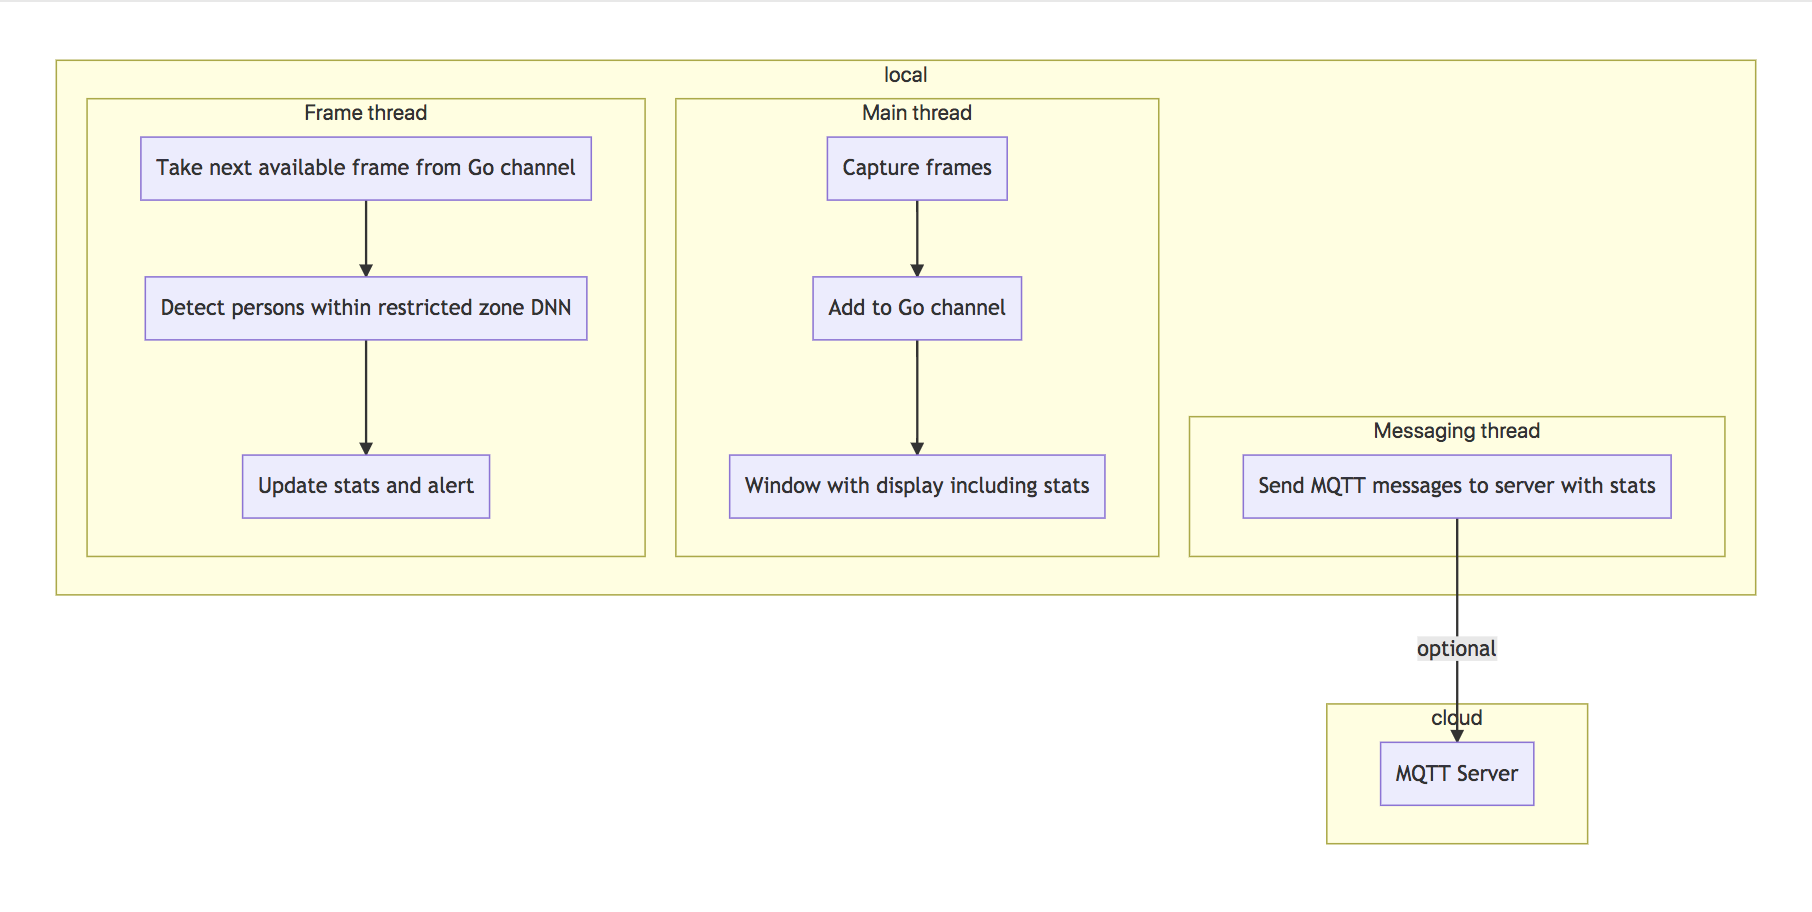
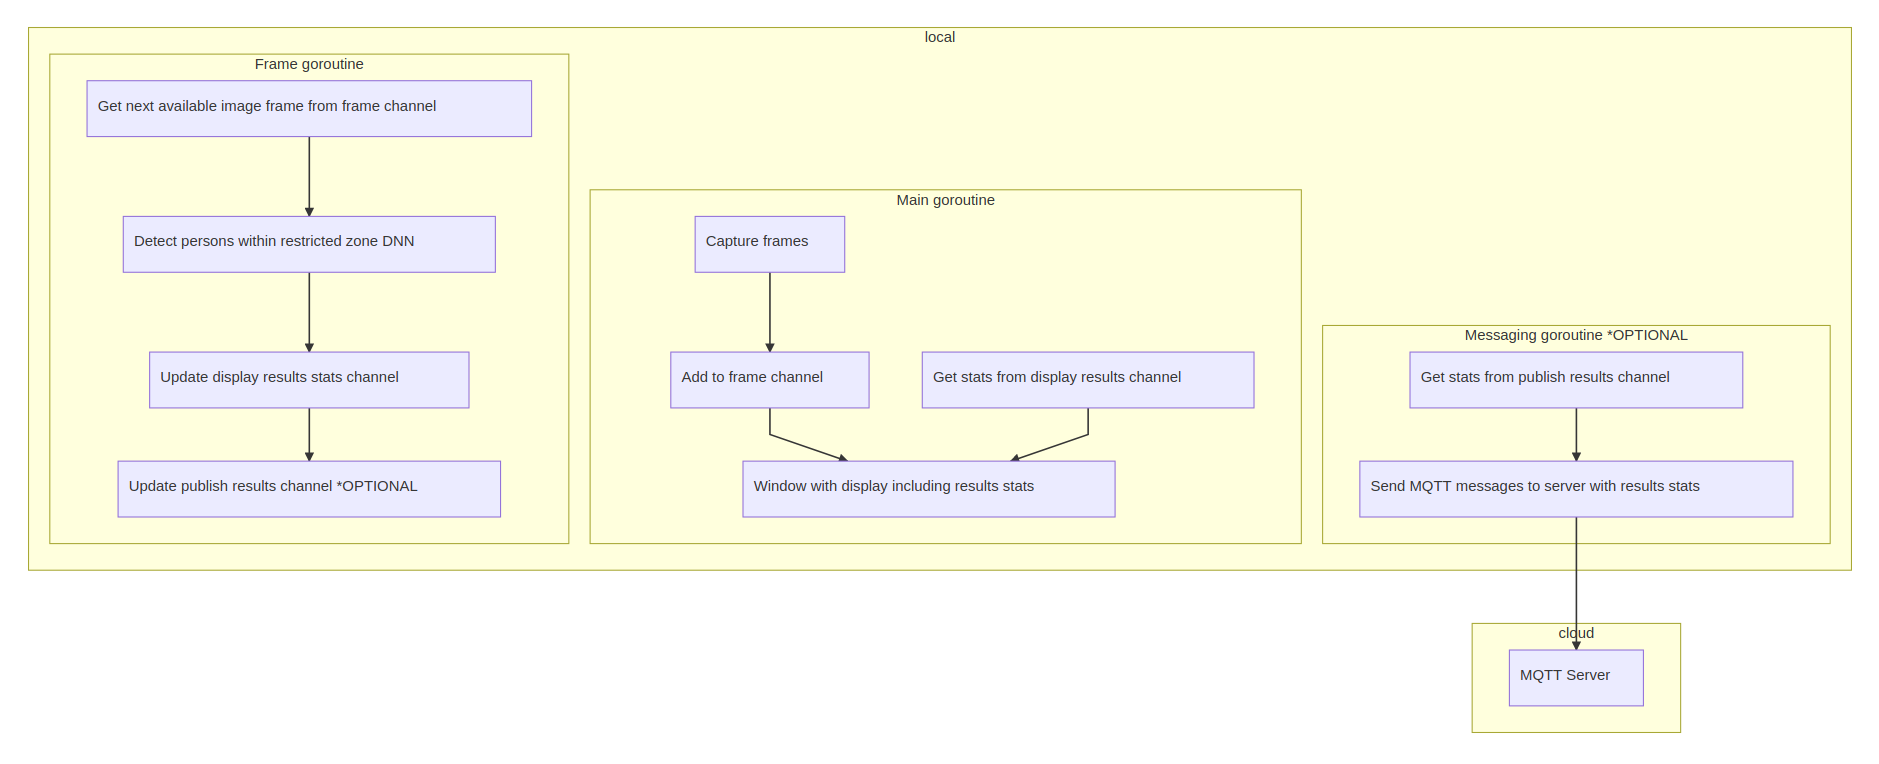
docs: update to latest installation info

diff --git a/README.md b/README.md
@@ -10,31 +10,76 @@
 
 ## Introduction
 
-This restricted zone notifier application is one of a series of reference implementations for Computer Vision (CV) using the OpenVINO™ toolkit. This application is designed for a machine mounted camera system that monitors if there are any humans present in a predefined selected assembly line area. It sends an alert if there is at least one person detected in the marked assembly area. The user can select the area coordinates either via command line parameters or once the application has been started they can select the region of interest (ROI) by pressing `ESC` key; this will pause the application, pop up a separate window on which the user can drag the mouse from the upper left ROI corner to whatever the size they require the area to cover. By default the whole frame is selected.
+This restricted zone notifier application is one of a series of reference implementations for Computer Vision (CV) using the Intel® Distribution of OpenVINO™ toolkit written in the Go programming language. This example is designed for a machine mounted camera system that monitors if there are any humans present in a predefined selected assembly line area. It sends an alert if there is at least one person detected in the marked assembly area. The user can select the area coordinates either via command line parameters or once the application has been started they can select the region of interest (ROI) by pressing `ESC` key; this will pause the application, pop up a separate window on which the user can drag the mouse from the upper left ROI corner to whatever the size they require the area to cover. By default the whole frame is selected.
 
 This example is intended to demonstrate how to use CV to improve assembly line safety for human operators and factory workers.
 
 ## Requirements
 
 ### Hardware
+
 * 6th Generation Intel® Core™ processor with Intel® Iris® Pro graphics and Intel® HD Graphics
 
 ### Software
+
 * [Ubuntu\* 16.04 LTS](http://releases.ubuntu.com/16.04/)
 *Note*: You must be running kernel version 4.7+ to use this software. We recommend using a 4.14+ kernel to use this software. Run the following command to determine your kernel version:
-```
+
+```shell
 uname -a
 ```
+
 * OpenCL™ Runtime Package
-* OpenVINO™ toolkit
+* Intel® Distribution of OpenVINO™ toolkit
+* Go programming language v1.11+
 
 ## Setup
 
 ### Install OpenVINO™ Toolkit
-Refer to https://software.intel.com/en-us/articles/OpenVINO-Install-Linux for more information about how to install and setup the OpenVINO™ toolkit.
+
+Refer to https://software.intel.com/en-us/articles/OpenVINO-Install-Linux for more information about how to install and setup the Intel® Distribution of OpenVINO™ toolkit.
 
 You will need the OpenCL™ Runtime package if you plan to run inference on the GPU as shown by the
 instructions below. It is not mandatory for CPU inference.
+
+### Install Go
+
+You must install the Go programming language version 1.11+ in order to compile this application. You can obtain the latest compiler from the Go website's download page at https://golang.org/dl/
+
+For an excellent introduction to the Go programming language, check out the online tour at https://tour.golang.org
+
+### Download the reference platform code using "go get"
+
+You can download the reference platform code onto your computer by using the following Go command:
+
+```shell
+go get -d github.com/intel-iot-devkit/restricted-zone-notifier-go
+```
+
+Then, change the current directory to where you have installed the application code to continue the installation steps:
+
+```shell
+cd $GOPATH/src/github.com/intel-iot-devkit/restricted-zone-notifier-go
+```
+
+### Install Dep
+
+This sample uses the `dep` dependency tool for Go. You can download and install it by running the following command:
+
+```shell
+make godep
+
+```
+
+### Install GoCV
+
+Once you have installed Go, you must also install the GoCV (https://gocv.io/) package which contains the Go programming language wrappers for OpenVINO, and the associated dependencies. The easiest way to do this is by using the `dep` tool, which will satisfy the program's dependencies as defined in `Gopkg.lock` file. Run the following make file task to do so:
+
+```shell
+make dep
+```
+
+Now you should be ready to build and run the reference platform application code.
 
 ## How it Works
 
@@ -50,7 +95,7 @@ You can find it here:
 
 ![Code organization](./images/arch3.png)
 
-The program creates three threads for concurrency:
+The program creates three go routines for concurrency:
 
 - Main goroutine that performs the video i/o
 - Worker goroutine that processes video frames using the deep neural networks
@@ -59,136 +104,175 @@ The program creates three threads for concurrency:
 ## Setting the Build Environment
 
 You must configure the environment to use the OpenVINO™ toolkit one time per session by running the following command:
-```
-    source /opt/intel/computer_vision_sdk/bin/setupvars.sh
+
+```shell
+source /opt/intel/computer_vision_sdk/bin/setupvars.sh
 ```
 
 ## Building the Code
 
 Start by changing the current directory to wherever you have git cloned the application code. For example:
-```
-    cd restricted-zone-notifier-go
+
+```shell
+cd $GOPATH/src/github.com/intel-iot-devkit/restricted-zone-notifier-go
 ```
 
 Before you can build the program you need to fetch its dependencies. You can do that by running the commands below. The first one fetches `Go` depedency manager of our choice and the latter uses it to satisfy the program's depdencies as defined in `Gopkg.lock` file:
 
-```
+```shell
 make godep
 make dep
 ```
 
 Once you have fetched the dependencies you must export a few environment variables required to build the library from the fetched dependencies. Run the following command from the project directory:
 
-```
-    source vendor/gocv.io/x/gocv/openvino/env.sh
+```shell
+source vendor/gocv.io/x/gocv/openvino/env.sh
 ```
 
 Now you are ready to build the program binary. The project ships a simple `Makefile` which makes building the program easy by invoking the `build` task from the project root as follows:
-```
-    make build
+
+```shell
+make build
 ```
 
- This commands creates a new directory called `build` in your current working directory and places the newly built binary called `monitor` into it.
-Once the commands are finished, you should have built the `monitor` application executable.
+This commands creates a new directory called `build` in your current working directory and places the newly built binary called `notifier` into it.
+Once the commands are finished, you should have built the `notifier` application executable.
 
 ## Running the Code
 
 To see a list of the various options:
-```
-    cd build
-    ./monitor -help
+
+```shell
+cd build
+./notifier -help
 ```
 
 To run the application with the needed model using the webcam:
-```
-    ./monitor -model=/opt/intel/computer_vision_sdk/deployment_tools/intel_models/pedestrian-detection-adas-0002/FP32/pedestrian-detection-adas-0002.bin -model-config=/opt/intel/computer_vision_sdk/deployment_tools/intel_models/pedestrian-detection-adas-0002/FP32/pedestrian-detection-adas-0002.xml
+
+```shell
+./notifier -model=/opt/intel/computer_vision_sdk/deployment_tools/intel_models/pedestrian-detection-adas-0002/FP32/pedestrian-detection-adas-0002.bin -model-config=/opt/intel/computer_vision_sdk/deployment_tools/intel_models/pedestrian-detection-adas-0002/FP32/pedestrian-detection-adas-0002.xml
 ```
 
-You can select an area to be used as the "off-limits" area by pressing the `c` key once the program is running. A new window will open showing a still image from the video capture device. Drag the mouse from left top corner to cover an area on the plane and once done (a blue rectangle is drawn) present `ENTER` or `SPACE` to proceed with monitoring.
+You can select an area to be used as the "off-limits" area by pressing the `c` key once the program is running. A new window will open showing a still image from the video capture device. Drag the mouse from left top corner to cover an area on the plane and once done (a blue rectangle is drawn) present `ENTER` or `SPACE` to proceed with notifiering.
 
 Once you have selected the "off-limits" area the coordinates will be displayed in the terminal window like this:
-```
+
+```shell
 Assembly Area Selection: -x=429 -y=101 -height=619 -width=690
 ```
 
 You can run the application using those coordinates by using the `-x`, `-y`, `-height, -h`, and `-width, -w` flags to pre-select that area.
 
 For example:
-```
-    ./monitor -model=/opt/intel/computer_vision_sdk/deployment_tools/intel_models/pedestrian-detection-adas-0002/FP32/pedestrian-detection-adas-0002.bin -model-config=/opt/intel/computer_vision_sdk/deployment_tools/intel_models/pedestrian-detection-adas-0002/FP32/pedestrian-detection-adas-0002.xml -x=429 -y=101 -height=619 -width=690
+
+```shell
+./notifier -model=/opt/intel/computer_vision_sdk/deployment_tools/intel_models/pedestrian-detection-adas-0002/FP32/pedestrian-detection-adas-0002.bin -model-config=/opt/intel/computer_vision_sdk/deployment_tools/intel_models/pedestrian-detection-adas-0002/FP32/pedestrian-detection-adas-0002.xml -x=429 -y=101 -height=619 -width=690
 ```
 
 If you do not select or specify an area, the default is to use the entire window as the off limits area.
-
-### Docker
-
-You can also build a Docker image and then run the program in a Docker container. First you need to build the image. You can use the `Dockerfile` present in the cloned repository and build the Docker image by running the following command:
-
-```
-docker build -t restricted-zone-notifier-go .
-```
-
-This will produce an image called `restricted-zone-notifier-go` which contains the built binary. Since this docker image has an [ENTRYPOINT](https://docs.docker.com/engine/reference/builder/#entrypoint) defined you can run the image as an executable using the following command:
-
-```
-docker run -it --rm restricted-zone-notifier-go -h
-```
-
-### Azure
-
-If you'd like to know how you can take advantage of more advanced build system provided by [Microsoft Azure Cloud](https://azure.microsoft.com/) , please check out the Azure guide [here](./azure.md). Following the steps in the guide you can build Docker container and push it into Azure Container Registry to make it available online.
 
 ### Hardware Acceleration
 
 This application can take advantage of the hardware acceleration in the OpenVINO toolkit by using the `-backend, -b` and `-target, -t` parameters.
 
 For example, to use the OpenVINO™ toolkit backend with the GPU in 32-bit mode:
-```
-    ./monitor -model=/opt/intel/computer_vision_sdk/deployment_tools/intel_models/pedestrian-detection-adas-0002/FP32/pedestrian-detection-adas-0002.bin -model-config=/opt/intel/computer_vision_sdk/deployment_tools/intel_models/pedestrian-detection-adas-0002/FP32/pedestrian-detection-adas-0002.xml -backedn=2 -target=1
+
+```shell
+./notifier -model=/opt/intel/computer_vision_sdk/deployment_tools/intel_models/pedestrian-detection-adas-0002/FP32/pedestrian-detection-adas-0002.bin -model-config=/opt/intel/computer_vision_sdk/deployment_tools/intel_models/pedestrian-detection-adas-0002/FP32/pedestrian-detection-adas-0002.xml -backedn=2 -target=1
 ```
 
 To run the code using 16-bit floats, you have to both set the `-target` flag to use the GPU in 16-bit mode, as well as use the FP16 version of the Intel® models:
-```
-    ./monitor -model=/opt/intel/computer_vision_sdk/deployment_tools/intel_models/pedestrian-detection-adas-0002/FP16/pedestrian-detection-adas-0002.bin -model-config=/opt/intel/computer_vision_sdk/deployment_tools/intel_models/pedestrian-detection-adas-0002/FP16/pedestrian-detection-adas-0002.xml -backend=2 -target=2
+
+```shell
+./notifier -model=/opt/intel/computer_vision_sdk/deployment_tools/intel_models/pedestrian-detection-adas-0002/FP16/pedestrian-detection-adas-0002.bin -model-config=/opt/intel/computer_vision_sdk/deployment_tools/intel_models/pedestrian-detection-adas-0002/FP16/pedestrian-detection-adas-0002.xml -backend=2 -target=2
 ```
 
 To run the code using the VPU, you have to set the `-target` flag to `3` and also use the 16-bit FP16 version of the Intel® models:
-```
-    ./monitor -model=/opt/intel/computer_vision_sdk/deployment_tools/intel_models/pedestrian-detection-adas-0002/FP16/pedestrian-detection-adas-0002.bin -model-config=/opt/intel/computer_vision_sdk/deployment_tools/intel_models/pedestrian-detection-adas-0002/FP16/pedestrian-detection-adas-0002.xml -backend=2 -target=3
+
+```shell
+./notifier -model=/opt/intel/computer_vision_sdk/deployment_tools/intel_models/pedestrian-detection-adas-0002/FP16/pedestrian-detection-adas-0002.bin -model-config=/opt/intel/computer_vision_sdk/deployment_tools/intel_models/pedestrian-detection-adas-0002/FP16/pedestrian-detection-adas-0002.xml -backend=2 -target=3
 ```
 
 ## Sample Videos
 
-There are several videos available to use as sample videos to show the capabilities of this application. You can download them by running these commands from the `restricted-zone-notifier-cpp` directory:
-```
-    mkdir resources
-    cd resources
-    wget https://github.com/intel-iot-devkit/sample-videos/raw/master/worker-zone-detection.mp4
-    cd ..
+There are several videos available to use as sample videos to show the capabilities of this application. You can download them by running these commands from the `restricted-zone-notifier-go` directory:
+
+```shell
+mkdir resources
+cd resources
+wget https://github.com/intel-iot-devkit/sample-videos/raw/master/worker-zone-detection.mp4
+cd ..
 ```
 
-To then execute the code using one of these sample videos, run the following commands from the `restricted-zone-notifier-cpp` directory:
-```
-    cd build
-    ./monitor -model=/opt/intel/computer_vision_sdk/deployment_tools/intel_models/pedestrian-detection-adas-0002/FP32/pedestrian-detection-adas-0002.bin -model-config=/opt/intel/computer_vision_sdk/deployment_tools/intel_models/pedestrian-detection-adas-0002/FP32/pedestrian-detection-adas-0002.xml -input=../resources/worker-zone-detection.mp4 -model-confidence=0.7
+To then execute the code using one of these sample videos, run the following commands from the `restricted-zone-notifier-go` directory:
+
+```shell
+cd build
+./notifier -model=/opt/intel/computer_vision_sdk/deployment_tools/intel_models/pedestrian-detection-adas-0002/FP32/pedestrian-detection-adas-0002.bin -model-config=/opt/intel/computer_vision_sdk/deployment_tools/intel_models/pedestrian-detection-adas-0002/FP32/pedestrian-detection-adas-0002.xml -input=../resources/worker-zone-detection.mp4 -model-confidence=0.7
 ```
 
 ### Machine to Machine Messaging with MQTT
 
 If you wish to use a MQTT server to publish data, you should set the following environment variables before running the program and use `-publish` flag when launching the program:
-```
-    export MQTT_SERVER=localhost:1883
-    export MQTT_CLIENT_ID=cvservice
+
+```shell
+export MQTT_SERVER=localhost:1883
+export MQTT_CLIENT_ID=cvservice
 ```
 
 Change the `MQTT_SERVER` to a value that matches the MQTT server you are connecting to.
 
 You should change the `MQTT_CLIENT_ID` to a unique value for each monitoring station, so you can track the data for individual locations. For example:
-```
-    export MQTT_CLIENT_ID=zone1337
+
+```shell
+export MQTT_CLIENT_ID=zone1337
 ```
 
 If you want to monitor the MQTT messages sent to your local server, and you have the `mosquitto` client utilities installed, you can run the following command:
-```
+
+```shell
 mosquitto_sub -t 'machine/zone'
 ```
+
+## Docker
+
+You can also build a Docker image and then run the program in a Docker container. First you need to build the image. You can use the `Dockerfile` present in the cloned repository and build the Docker image.
+
+First you must obtain your own unique download URL for the Intel distribution of OpenVINO toolkit. Follow the registration process if you have not yet done so. In the registration email you have received a link to the Intel Registration Center website download page, shown here:
+
+![OpenVINO download page](./images/openvino-download.png)
+
+First, navigate to the download page using the link you have received. On the download page, use the "Choose Product to Download" selection box and select "Intel Distribution of OpenVINO toolkit for Linux". Next, using the "Choose a Version" selection box, select "2018 R5". The "Choose a Download Option" section should appear. Right click on the button "Full Package" and choose "Copy Link Address". Your clipboard should now contain your unique OpenVINO download URL. Save this URL somewhere safe.
+
+Now you can build your unique Docker image by running the following command, substituting the actual URL you obtained in the previous step:
+
+```shell
+docker build -t restricted-zone-notifier-go --build-arg OPENVINO_DOWNLOAD_URL=[your unique OpenVINO download URL here] .
+```
+
+This will produce a docker image called `restricted-zone-notifier-go` which contains the built binary. Since the built docker image has an [ENTRYPOINT](https://docs.docker.com/engine/reference/builder/#entrypoint) defined you can run the image as an executable using the following command:
+
+```shell
+docker run -it --rm restricted-zone-notifier-go -h
+```
+
+To run the docker image on an Ubuntu host machine using an attached camera, run the following commands:
+
+```shell
+xhost +local:docker
+docker run --device=/dev/video0:/dev/video0 -v /tmp/.X11-unix:/tmp/.X11-unix -e DISPLAY=$DISPLAY -it --rm restricted-zone-notifier-go 
+xhost -local:docker
+```
+
+To run the docker image on an Ubuntu host machine using a file input, run the following commands:
+
+```shell
+xhost +local:docker
+docker run -v ${PWD}/resources:/resources -v /tmp/.X11-unix:/tmp/.X11-unix -e DISPLAY=$DISPLAY -it --rm restricted-zone-notifier-go -input=/resources/face-demographics-walking-and-pause.mp4
+xhost -local:docker
+```
+
+## Microsoft Azure
+
+If you'd like to know how you can take advantage of more advanced build system provided by [Microsoft Azure Cloud](https://azure.microsoft.com/), please check out the Azure guide [here](./azure.md). Following the steps in the guide you can build a Docker container and push it into Azure Container Registry to make it available online.
